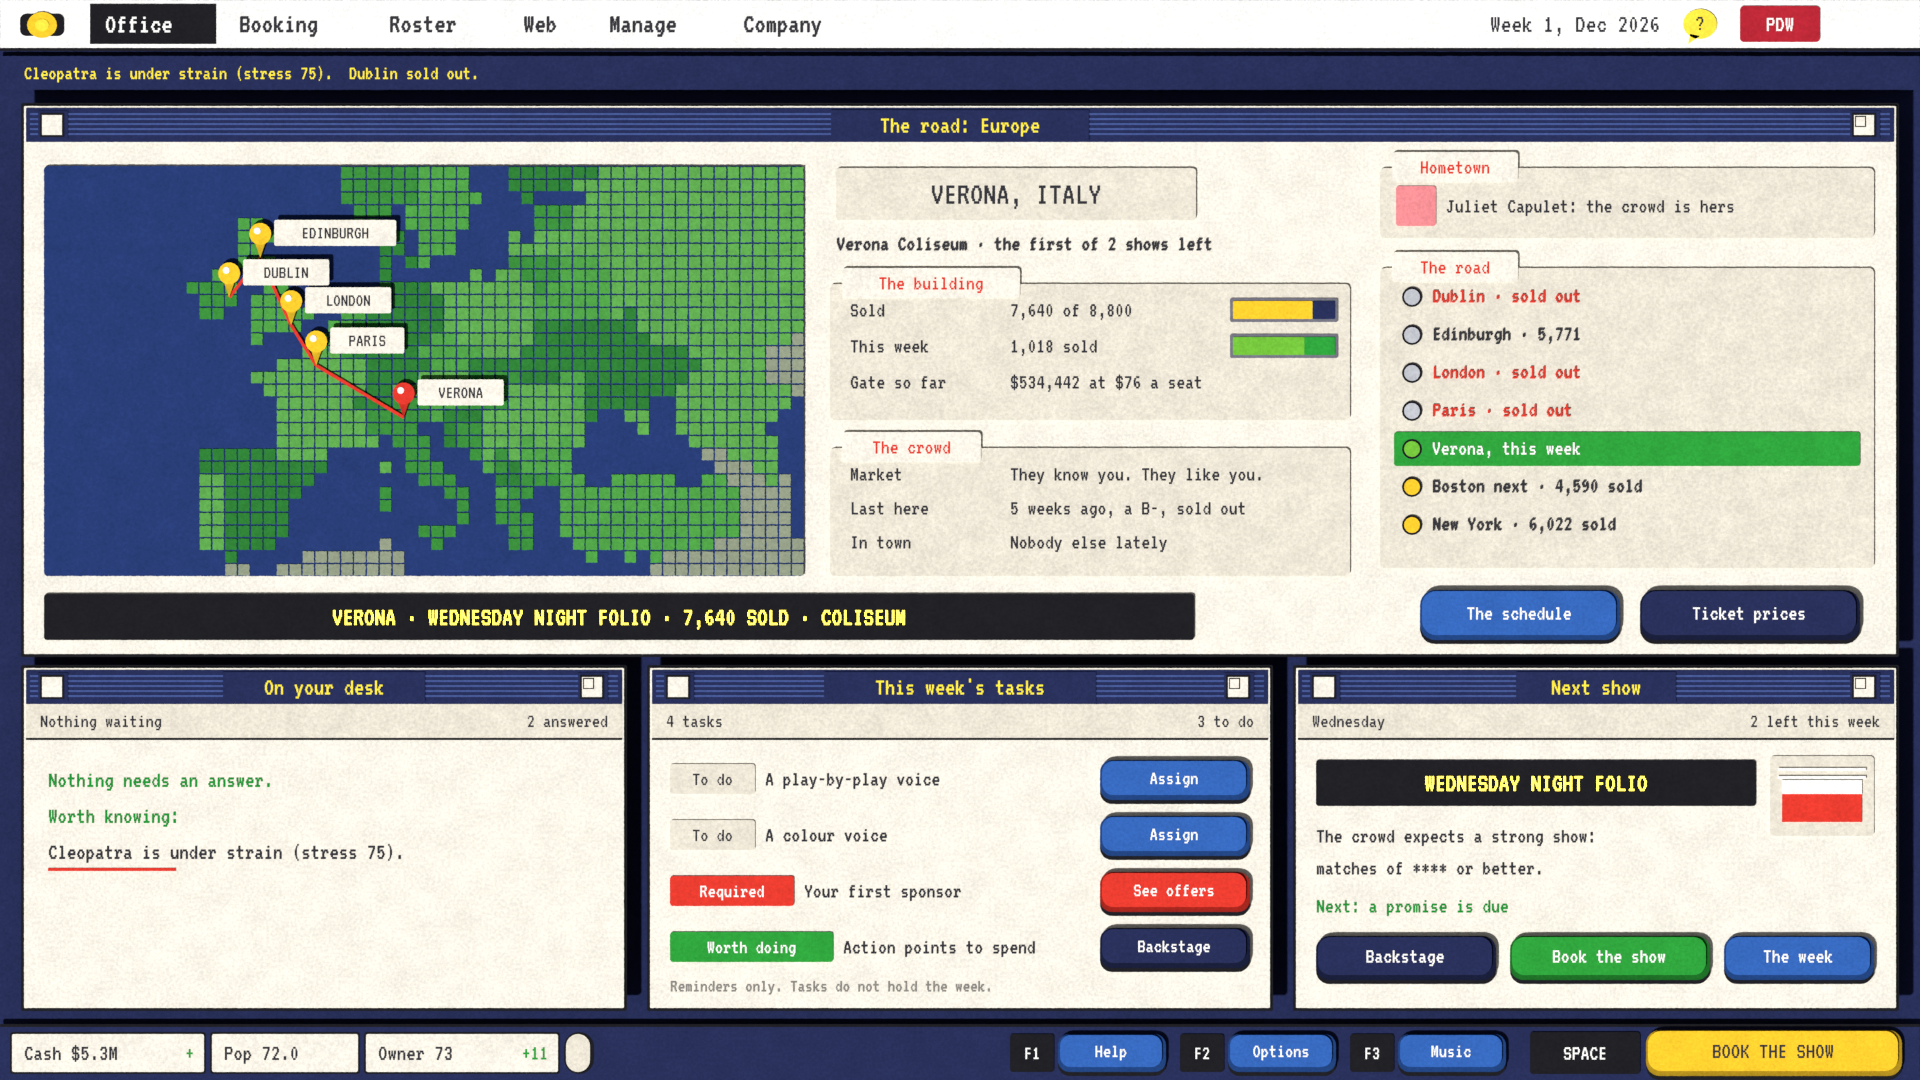
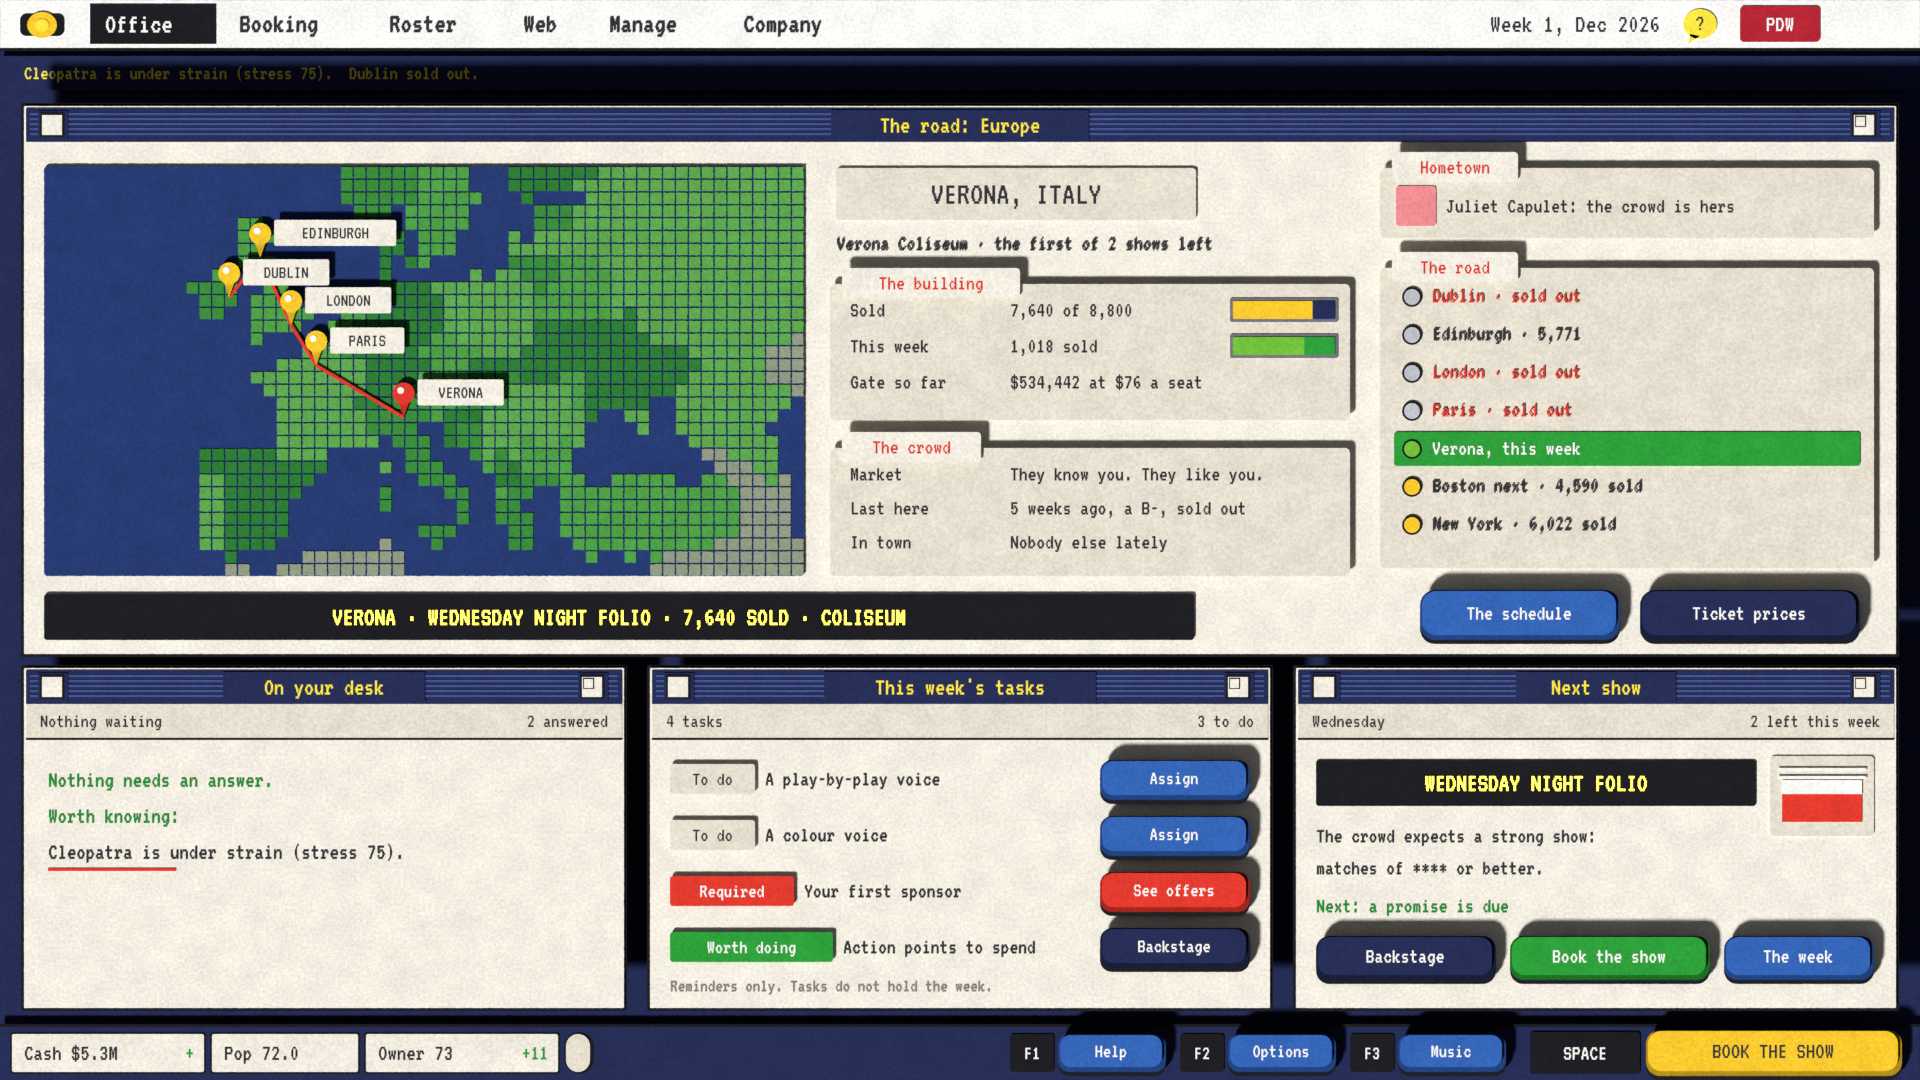
Concept: deeper paper shadows on the desk, and a flat CRT filter
Windows, group boxes, tags and buttons sit higher off the card, as if glued on foam, under a
lower, softer light, so every piece throws a real shadow. tools/creator/crt.py lays a CRT over a
finished render: scanlines, phosphor stripes, glow, a slight colour fringe and dark corners, on
flat glass (Ryan, 18 October: no curve). docs/mockups/paper/desk-crt.png.

Claude-Session: https://claude.ai/code/session_012J6qT6PRPPw77j6nAaHp1Z

diff --git a/tools/creator/paper-desk.py b/tools/creator/paper-desk.py
@@ -108,7 +108,7 @@ def text(s, x, y, size, col=C['ink'], z=0.0, align='LEFT', glow=0.0):
     cu.materials.append(card(col, glow)[0])
 
 # ---------------------------------------------------------------- the parts of the look
-def window(x, y, w, h, title, info=None, z=3.5):
+def window(x, y, w, h, title, info=None, z=6.0):
     """A window as on a mid 90s Macintosh, cut from card: a black outline, a pinstriped grey title bar with a
     close box and a zoom box, the title on a patch in the middle, and the info strip under it (left and right)."""
     cut(rrect(x - 3, y - 3, w + 6, h + 6, 2), C['black'], z, 0.3, 0.12)
@@ -133,23 +133,25 @@ def window(x, y, w, h, title, info=None, z=3.5):
 
 def group(x, y, w, h, head, z):
     """A group box: a darker card with a tab that carries the heading in red."""
+    z += 0.7   # glued on a little foam, so it throws a shadow onto the window
     cut(rrect(x, y, w, h, 5), C['cream2'], z, 0.12, 0.2)
     tw = len(head) * 13 + 22
-    cut(rrect(x + 12, y - 16, tw, 30, 4), C['cream'], z + 0.12, 0.12, 0.15)
-    text(head, x + 12 + tw / 2, y - 1, 28, C['red'], z + 0.24, 'CENTER')
+    cut(rrect(x + 12, y - 16, tw, 30, 4), C['cream'], z + 0.5, 0.12, 0.15)
+    text(head, x + 12 + tw / 2, y - 1, 28, C['red'], z + 0.62, 'CENTER')
     return z + 0.12
 
 def button(x, y, w, h, label, kind='go', z=3.0, size=28):
     """A button built up from card: a dark base, a coloured face raised on it, and the label on top."""
     face = dict(go=C['green'], navy=C['navy'], danger=C['red'], less=C['steel'], gold=C['gold'])[kind]
     base = tuple(c * 0.45 for c in face); ink = C['ink'] if kind == 'gold' else C['white']
-    cut(rrect(x, y + 4, w, h, h * 0.3), C['black'], z, 0.35, 0.15)
-    cut(rrect(x, y, w, h, h * 0.3), base, z + 0.35, 0.35, 0.12)
-    cut(rrect(x + 2, y + 1, w - 6, h - 6, h * 0.28), face, z + 0.7, 0.3, 0.1)
-    text(label, x + w / 2 - 1, y + h / 2 - 2, size, ink, z + 1.0, 'CENTER')
+    z += 0.9   # stacked high, so a button stands well off the window
+    cut(rrect(x, y + 4, w, h, h * 0.3), C['black'], z, 0.45, 0.15)
+    cut(rrect(x, y, w, h, h * 0.3), base, z + 0.45, 0.45, 0.12)
+    cut(rrect(x + 2, y + 1, w - 6, h - 6, h * 0.28), face, z + 0.9, 0.4, 0.1)
+    text(label, x + w / 2 - 1, y + h / 2 - 2, size, ink, z + 1.3, 'CENTER')
 
 def tag(x, y, label, col, ink=C['white'], z=3.0):
-    w = len(label) * 13 + 20; cut(rrect(x, y, w, 30, 3), col, z, 0.15, 0.15); text(label, x + w / 2, y + 15, 26, ink, z + 0.15, 'CENTER'); return w
+    w = len(label) * 13 + 20; cut(rrect(x, y, w, 30, 3), col, z + 0.4, 0.15, 0.15); text(label, x + w / 2, y + 15, 26, ink, z + 0.55, 'CENTER'); return w
 
 def meter(x, y, w, h, parts, z):
     cut(rrect(x, y, w, h, 2), (0.2, 0.2, 0.24), z, 0.1, 0.12); cx = x + 3
@@ -280,9 +282,9 @@ def render():
     sc.render.resolution_x, sc.render.resolution_y = W, H
     sc.view_settings.view_transform = 'Standard'; sc.view_settings.look = 'Medium High Contrast'; sc.view_settings.exposure = 0.0
     w = bpy.data.worlds.new('w'); sc.world = w
-    w.node_tree.nodes['Background'].inputs['Color'].default_value = (0.55, 0.55, 0.58, 1); w.node_tree.nodes['Background'].inputs['Strength'].default_value = 0.32
-    sun = bpy.data.lights.new('sun', 'SUN'); sun.energy = 3.4; sun.angle = math.radians(3)
-    so = bpy.data.objects.new('sun', sun); bpy.context.collection.objects.link(so); so.rotation_euler = Euler((math.radians(24), math.radians(-22), 0))
+    w.node_tree.nodes['Background'].inputs['Color'].default_value = (0.55, 0.55, 0.58, 1); w.node_tree.nodes['Background'].inputs['Strength'].default_value = 0.2
+    sun = bpy.data.lights.new('sun', 'SUN'); sun.energy = 3.9; sun.angle = math.radians(7)
+    so = bpy.data.objects.new('sun', sun); bpy.context.collection.objects.link(so); so.rotation_euler = Euler((math.radians(-34), math.radians(-30), 0))
     zoom = float(os.environ.get('ZOOM', 1)); cam = bpy.data.cameras.new('cam'); cam.type = 'ORTHO'; cam.ortho_scale = W / 10.0 / zoom
     co = bpy.data.objects.new('cam', cam); bpy.context.collection.objects.link(co); sc.camera = co; co.location = (*P(float(os.environ.get('CX', W / 2)), float(os.environ.get('CY', H / 2))), 60)
     desk()

diff --git a/tools/creator/crt.py b/tools/creator/crt.py
@@ -1,0 +1,61 @@
+"""A CRT filter for a finished render: the picture as if seen on a tube of the early 90s. The glass is flat
+(Ryan, 18 October: no curve); bend > 0 brings the curve and the rounded bezel back.
+
+    python tools/creator/crt.py docs/mockups/paper/desk.png        # writes desk-crt.png beside it
+
+What it does, in order: bends the picture onto curved glass, splits the colours a little toward the edges, adds
+the glow bright things have on a tube, lays the scanlines and the phosphor stripes over it, darkens the corners,
+adds a little noise, then rounds the corners of the glass and sets it in a dark bezel with a faint reflection.
+Needs numpy and Pillow."""
+import sys, os
+import numpy as np
+from PIL import Image, ImageFilter
+
+def sample(img, xs, ys):
+    """Bilinear lookup of img (h, w, c) at float coordinates."""
+    h, w = img.shape[:2]
+    xs = np.clip(xs, 0, w - 1.001); ys = np.clip(ys, 0, h - 1.001)
+    x0 = xs.astype(int); y0 = ys.astype(int); fx = (xs - x0)[..., None]; fy = (ys - y0)[..., None]
+    a = img[y0, x0]; b = img[y0, x0 + 1]; c = img[y0 + 1, x0]; d = img[y0 + 1, x0 + 1]
+    return (a * (1 - fx) + b * fx) * (1 - fy) + (c * (1 - fx) + d * fx) * fy
+
+def crt(src, dst, bend=0.0, fringe=1.6, glow=0.35, lines=0.2, mask=0.1, vignette=0.35, seed=1):
+    im = np.asarray(Image.open(src).convert('RGB')).astype(np.float32) / 255.0
+    h, w = im.shape[:2]
+    yy, xx = np.mgrid[0:h, 0:w].astype(np.float32)
+    nx = (xx / (w - 1)) * 2 - 1; ny = (yy / (h - 1)) * 2 - 1
+    r2 = nx * nx * (w / h) ** 0 + ny * ny
+    out = np.zeros_like(im)
+    for ch, k in ((0, bend + 0.0006 * fringe), (1, bend), (2, bend - 0.0006 * fringe)):   # the glass bends red and blue a hair differently
+        f = (1 + k * r2) / (1 + k)   # the middle of each edge stays at the edge; only the corners bow
+        sx = ((nx * f) + 1) / 2 * (w - 1); sy = ((ny * f) + 1) / 2 * (h - 1)
+        out[..., ch] = sample(im[..., ch:ch + 1], sx, sy)[..., 0]
+    fb = (1 + bend * r2) / (1 + bend)
+    edge = (np.abs(nx * fb) > 1) | (np.abs(ny * fb) > 1)
+    # glow: what is bright bleeds a little light round itself
+    pil = Image.fromarray((np.clip(out, 0, 1) * 255).astype(np.uint8))
+    bright = np.asarray(pil.filter(ImageFilter.GaussianBlur(6))).astype(np.float32) / 255.0
+    wide = np.asarray(pil.filter(ImageFilter.GaussianBlur(22))).astype(np.float32) / 255.0
+    out = out + glow * (np.clip(bright - 0.45, 0, 1) * 0.8 + np.clip(wide - 0.5, 0, 1) * 0.6)
+    # scanlines: a soft dark line every third row; phosphor stripes: red, green, blue columns
+    out *= (1 - lines * (0.5 + 0.5 * np.cos(yy * 2 * np.pi / 3.0)))[..., None]
+    stripe = np.ones((h, w, 3), np.float32) * (1 - mask)
+    for c in range(3): stripe[:, c::3, c] = 1.0
+    out *= stripe * (1 + mask * 0.6)
+    # the corners darken, and a little noise
+    out *= (1 - vignette * np.clip(r2 / 2.0, 0, 1) ** 1.6)[..., None]
+    out += np.random.default_rng(seed).normal(0, 0.012, out.shape).astype(np.float32)
+    # the glass: rounded corners, a dark bezel, a faint reflection across the top left
+    cx = np.abs(nx * fb); cy = np.abs(ny * fb); rad = 0.06
+    qx = np.clip(cx - (1 - rad), 0, None) / rad; qy = np.clip(cy - (1 - rad * w / h), 0, None) / (rad * w / h)
+    inside = (((qx * qx + qy * qy) <= 1) & ~edge) if bend else np.ones_like(edge)
+    refl = np.clip(1 - np.hypot(nx + 0.55, ny + 0.75) / 0.9, 0, 1) ** 2 * 0.07
+    out = out + refl[..., None]
+    bezel = np.array([0.05, 0.05, 0.055], np.float32) * (1 - 0.4 * np.clip(r2 / 2, 0, 1))[..., None]
+    out = np.where(inside[..., None], out, bezel)
+    Image.fromarray((np.clip(out, 0, 1) * 255).astype(np.uint8)).save(dst)
+    print('saved', dst)
+
+if __name__ == '__main__':
+    src = sys.argv[1]; base, ext = os.path.splitext(src)
+    crt(src, sys.argv[2] if len(sys.argv) > 2 else base + '-crt' + ext)
